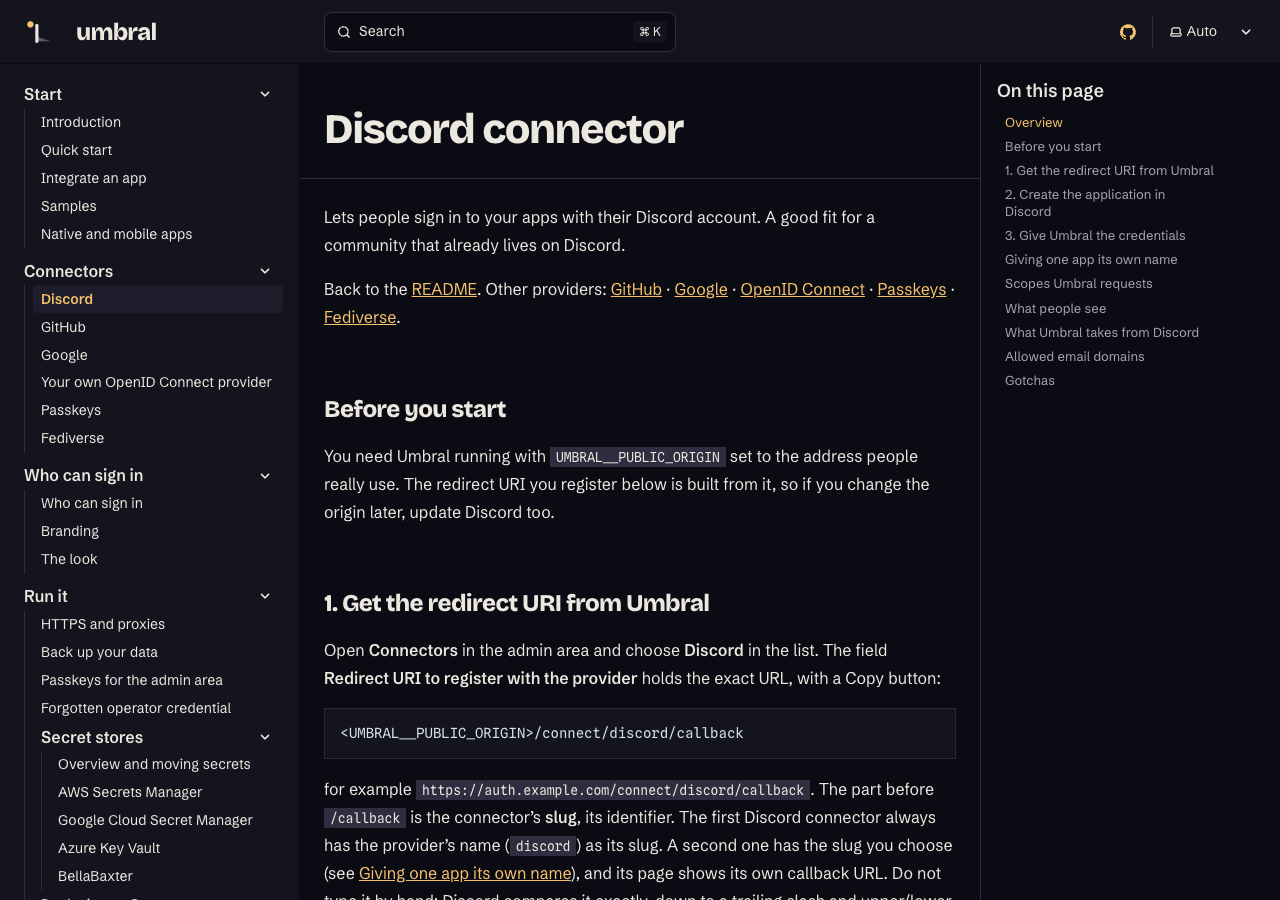
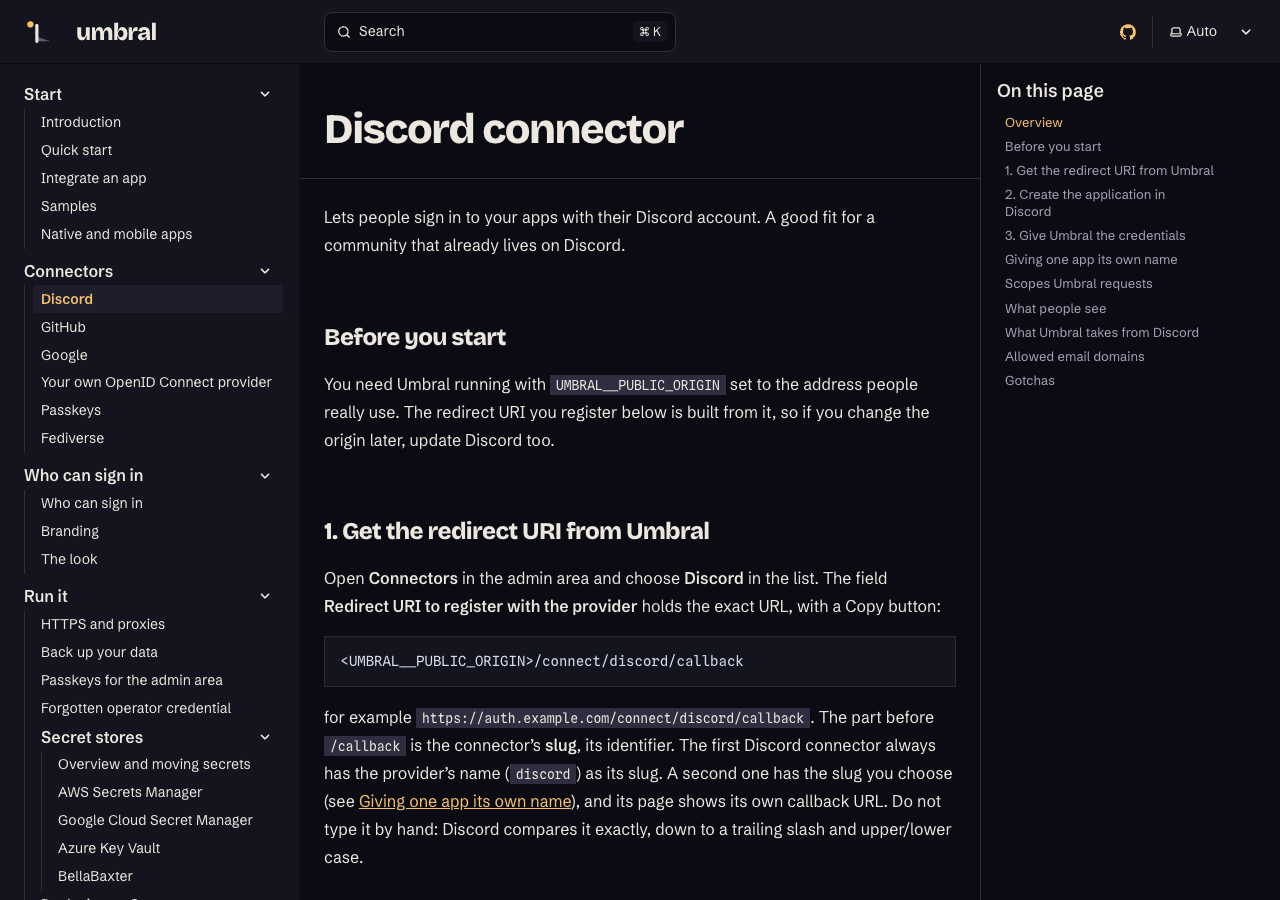
review(docs-site): take the code review, and the documentation re-check's two requests (task hmfr)
Code (code-review.md, two blocking items and five nits):
- pages.yml: one concurrency group per ref, so a pull request can no longer
  cancel a pending deploy to main; a workflow_run trigger after release, since
  the release's changelog push starts no workflow and the Release notes page
  would never follow a release; Node read from site/.nvmrc, pinned to 22.23.4;
  persist-credentials: false; the artifact is uploaded only on main.
- check-dist.mjs: a host named after a quote, a bracket, an equals sign or a
  space in a script, a stylesheet or an SVG file must be the site's own or in
  a list with its reason. It closes a protocol-relative fetch, a URL in an SVG
  file and one in image-set(), which the review injected and the check missed.
- collect.mjs: a comment on the line-based scan's limit.

Documentation re-check (clear):
- The walkthrough's opening says that a passkey is a connector and that a
  person's passkeys belong to their user.
- On the site, collect.mjs leaves out a walkthrough's "Back to the README.
  Other providers: ..." paragraph: the sidebar does that there. The sources
  keep it for readers on GitHub, and a paragraph that holds more than links
  stops the build instead of being dropped.

Design re-check: clear; the verdict is in review.md. Captures retaken.

Changed region(s): [[0.25, 0.7156, 0.75, 1.0], [0.25, 0.3111, 0.75, 0.6844]]

diff --git a/.alta/reviews/2026-11-05-docs-site/code-review.md b/.alta/reviews/2026-11-05-docs-site/code-review.md
@@ -1,0 +1,93 @@
+# Code review: the documentation site's scripts and the Pages workflow (task hmfr)
+
+Branch `alta/roaming-foxglove-m2q5`, `3c87b72..65a2f69` (the site is `ca96f84`). Reviewer: the `umbral` session, 2026-11-11. In scope: `site/scripts/collect.mjs`, `site/scripts/check-dist.mjs`, `.github/workflows/pages.yml`, the pins and `site/package-lock.json`, `site/astro.config.mjs`, `site/site.config.mjs`, `site/sidebar.mjs`, `.dockerignore`. The README split, the new pages and the look are the documentation and design reviews'.
+
+## Verdict
+
+**Two blocking items, both a few lines in `pages.yml`; five nits.** The scripts are sound. I built the site from a clean export and broke each check on purpose: collect refused every bad source, and check-dist has three holes, all closable with one pattern (N1).
+
+## What was checked
+
+- **The build, from a clean export.** I unpacked `git archive 65a2f69` into an empty folder and ran `npm ci && npm run build` on Node 22.23.4. It passed: 28 pages, 169 links to pages and 28 to GitHub, `All internal links are valid.`, and check-dist printed the same line as the notes (48 files, 148 external `<a>` links).
+- **collect.mjs refuses, naming the file and line, and writes nothing.** Each of these exits 1 with `nothing written`:
+  - an unknown `## ` section in the README;
+  - a page in `docs/` missing from the sidebar;
+  - a link to a missing heading;
+  - a link that leaves the repository (`../../outside.md`);
+  - a setext heading;
+  - a second `# ` heading inside a page.
+
+  Writing happens only after every check passes, and the `&&` chain in `npm run build` stops `astro build` on a failure.
+- **Anchors on a page made from two sources.** Anchors map through `headingIds`, keyed by source and line with the page's own repeat counter. So a heading whose text appears in both the README's Integrate section and `docs/integrate.md` still gets the right `-1` id, and `starlight-links-validator` checks the ids again after Astro has made them.
+- **Writes stay in `site/`.** The three output paths are built from `SITE_DIR`, a link that resolves outside the repository is an error, and the generated folders are in `site/.gitignore`.
+- **check-dist's existing rules hold.** A `<link rel="preconnect" href="https://…">` added to `index.html` fails it, and so does `fetch("https://evil.example/x")` added to a script. An unparsable URL counts as another host, so it fails closed.
+- **Action pins.** Each SHA was compared with its tag via `git ls-remote`, and all five match:
+  - checkout v5.1.0 `fbc6f39`, the same as the samples workflows;
+  - setup-node v7.1.0 `949feb2`;
+  - configure-pages v6.0.0 `45bfe01`;
+  - upload-pages-artifact v5.0.0 `fc324d3`;
+  - deploy-pages v5.0.1 `368f825`.
+
+  The last four are the newest tags of their actions today.
+- **npm pins.** Astro 7.4.10, Starlight 0.42.10 and starlight-links-validator 0.27.0 are pinned exactly. The lockfile has 381 entries, all resolved from `registry.npmjs.org`, each with an integrity hash. The only package with an install script is `fsevents` (macOS only, never installed on the runner). Astro's own `engines` does say `node >=22.23.4`.
+- **The workflow's shape.**
+  - `contents: read` at the top. `pages: write` and `id-token: write` only in the deploy job, which runs no repository code.
+  - A pull request builds and uploads nothing.
+  - `configure-pages` is in the deploy job, so a repository without Pages turned on fails only there.
+  - `.dockerignore` keeps `site/` out of the image's context.
+
+## Blocking
+
+- **B1. A pull request can cancel a deploy to `main`.** `concurrency: {group: pages, cancel-in-progress: false}` puts every run in one group, pull requests included. GitHub keeps one running and one pending run per group, and a newly queued run cancels the pending one. Here is what that does:
+  1. A deploy is running.
+  2. A second push to `main` is pending behind it.
+  3. A pull request touching `docs/` queues.
+
+  The `main` run is cancelled and never deploys, and pull requests also wait behind deploys. Give each ref its own group, and let pull requests cancel their own older runs:
+
+  ```yaml
+  concurrency:
+    group: pages-${{ github.ref }}
+    cancel-in-progress: ${{ github.event_name == 'pull_request' }}
+  ```
+
+  `main`'s runs still queue: a newer one replaces a pending older one, which is right, since each deploys its own commit.
+
+- **B2. The Release notes page never updates after a release.** `CHANGELOG.md` only changes through the release workflow. Its changelog job commits and pushes with `GITHUB_TOKEN`, and a push made with that token starts no workflow, so the `CHANGELOG.md` path filter never fires. The page would stay at whatever release came before the last docs change. A `workflow_run` trigger runs after the release workflow, on `main`, with the changelog commit already there:
+
+  ```yaml
+    workflow_run:
+      workflows: [release]
+      types: [completed]
+  ```
+
+  It fires when the whole release run has finished, and both ways of releasing have pushed the changelog to `main` by then: a Run in its `changelog` job, a pushed tag in the `release` job ("Record the changelog on main"). No condition on the run's conclusion is needed. A run that failed before pushing just rebuilds the same notes, and one that failed after pushing still has notes to publish. `github.ref` is `refs/heads/main` for this event, so the deploy job's `if` lets it through, and with B1 it shares `main`'s group. Keep `CHANGELOG.md` in the path filter for a hand edit.
+
+## Nits
+
+- **N1. check-dist misses three things a browser would fetch.** I injected each into the built `dist/`, and check-dist passed:
+  - `fetch("//evil.example/x")` in a script: the JS scan only matches `https?://`, not a protocol-relative URL.
+  - `<image href="https://…">` in an SVG: `.svg` files are never read (today: the favicon and the two Gnomon files). Low risk, because an SVG shown as `<img>` or as a favicon can't fetch, but a later `<object>` or inlined copy could.
+  - `image-set("https://…" 1x)` in CSS: only `url()` and `@import` are scanned.
+
+  One pattern closes all three. In `.js`, `.mjs`, `.css` and `.svg`, take every `["'`(=\s](?:https?:)?//host` and require the host to be on a list, each entry with its reason, as the JS list is today. On this build the hosts it finds are:
+  - `www.w3.org`: the SVG namespace, in CSS data URIs, the SVG files and JS;
+  - `bugzilla.mozilla.org` and `bugs.webkit.org`: comments in Starlight's CSS;
+  - `markjs.io`, `git.io` and `example.com`: already allowed.
+
+  Keep the existing exact-URL list for full `https://` URLs in JS as well.
+- **N2. Pin Node exactly.** Today, `node-version: 22` with `check-latest` takes whatever 22.x is newest on each run, and `.nvmrc`'s `22` lets nvm pick an older installed 22 that npm only warns about (`engines` isn't enforced without `engine-strict`). Write the exact version in `site/.nvmrc` (22.23.4, or the newest 22 when you edit it), and use `node-version-file: site/.nvmrc` without `check-latest`. Then CI and a local build run the same Node, and a bump is one line.
+- **N3. `persist-credentials: false` on the checkout**, as the samples workflows have it. `npm ci` installs a few hundred packages with the job's token in `.git/config`. The token is read-only here, but the line costs nothing and keeps the workflows alike.
+- **N4. A dispatch from another branch uploads an artifact for nothing.** The upload step runs for any event but `pull_request`, while the deploy job needs `main`. Give the upload step the same `github.ref == 'refs/heads/main'` condition. Trivial.
+- **N5. Say the line-based scan's limit in a comment.** A code span that wraps onto a second line isn't blanked (your point 2). Usually that fails loudly, as a link that doesn't exist. The one quiet case is a wrapped span holding `](path)` to a file that exists: the path is rewritten inside the code. No source does this, so no code change: one sentence in the header comment beside "The link scan follows check-links.py".
+
+## The four questions
+
+1. **Exact strings or hosts in the JS allowlist?** Keep exact strings for full `https://` URLs: stricter than a host, since a new path on an allowed host still fails. Add the host check of N1 for the quoted `//host` pattern, which covers what the exact list can't see.
+2. **The line-based scan.** Accepted as is, with N5's sentence.
+3. **The two extra trigger paths.** Both are right: `samples/README.md` is a page, and the fonts ship with the site. B2 is the trigger that was missing.
+4. **Node.** Exact, through `.nvmrc` (N2).
+
+## Not a finding
+
+GitHub Pages can't send headers, but a `<meta http-equiv="Content-Security-Policy">` in Starlight's `head` would make "nothing from another host" enforced by the browser, not only checked at build. It needs `'unsafe-inline'` for Starlight's theme script and `'wasm-unsafe-eval'` for Pagefind, and search would need testing under it. That is worth a follow-up task if you want it, but not for this branch.

diff --git a/.alta/reviews/2026-11-05-docs-site/notes.md b/.alta/reviews/2026-11-05-docs-site/notes.md
@@ -168,8 +168,8 @@ Everything not in the list above that is new text:
 
 - **Pins** (exact, with `package-lock.json`): `astro` 7.4.10, `@astrojs/starlight` 0.42.10,
   `starlight-links-validator` 0.27.0. Nothing else. Astro 7.4.10 itself asks for Node 22.23.4 or
-  later, so `package.json` says `>=22.23.4`, `.nvmrc` says `22`, and the workflow takes the newest
-  22 (`check-latest`), since a runner's cached 22 may be older.
+  later, so `package.json` says `>=22.23.4`, and `.nvmrc` says `22.23.4` exactly, which the
+  workflow reads (after the code review; first `22` with `check-latest`).
 - **`site/site.config.mjs`** holds `site` and `base`, the two lines to change for a custom domain,
   and the repository's address. The Astro config, the collect script and the check import them.
 - **`site/scripts/collect.mjs`** (Node, standard library only) writes `site/src/content/docs/` and
@@ -190,8 +190,9 @@ Everything not in the list above that is new text:
   repository. To a page's source: the page's route, with the anchor checked against the target's
   headings. To `README.md#anchor`: the page that holds that section. To anything else that exists
   in the repository (a sample, a spec, `docker-compose.yml`, `docs/history/`): the file on GitHub.
-  To nothing: an error with `source:line`, and nothing is written. On this tree: 169 links to
-  pages, 28 to GitHub.
+  To nothing: an error with `source:line`, and nothing is written. On this tree: 127 links to
+  pages, 28 to GitHub (169 before the navigation paragraphs were left out, see "After the
+  reviews").
 - **Every page is in the sidebar.** `site/sidebar.mjs` is the sidebar and the list of pages; the
   script fails on a generated page it does not name and on an entry for a page that does not
   exist. 28 pages.
@@ -342,3 +343,47 @@ changed here. The task should wait until the site is live, and not long after.
 After these: `check-links.py` passes (270 links in 34 files), the site builds clean (28 pages, all
 internal links valid, nothing requested from another host), `actionlint` passes on both workflows
 touched.
+
+### Design re-check: clear at `cb75872`
+
+The verdict is at the top of `review.md`. The search field keeps both its gold border (Starlight's)
+and the gold ring (the focus), as ruled.
+
+### Documentation re-check: clear at `cb75872` (`d2dab14`), with two last requests, both taken
+
+- **One sentence in the walkthrough's opening**: "In Umbral a passkey is a connector, and a person's
+  passkeys belong to their user, like the provider accounts they sign in with." It was the one
+  statement of the README's old passkey opening that was left nowhere.
+- **"Back to the README. Other providers: …" on the site** (the designer's observation, ruled by
+  the documentation reviewer): the paragraph stays in the sources, where it is a GitHub reader's
+  way back and sideways, and `collect.mjs` leaves it out of the generated page. The rule is
+  narrow: a paragraph before the first `## ` that starts "Back to the [README](…). Other providers:"
+  or "Other stores:" and holds nothing but links. Ten pages have one (the six connectors, the four
+  stores). If such a paragraph ever holds a sentence of content, the build stops and says so,
+  rather than dropping it. `docs/native-apps.md` opens "Back to the README" too, but goes on with
+  a sentence about the samples, so it does not match and is kept whole. Links to pages went from
+  169 to 127: the 42 that left are those navigation links.
+
+### Code (`code-review.md`): two blocking items and five nits, all taken
+
+- **B1, a pull request could cancel a deploy to `main`.** `concurrency` is now one group per ref,
+  `pages-${{ github.ref }}`, and only a pull request cancels its own older runs.
+- **B2, the Release notes page would never follow a release.** The release pushes `CHANGELOG.md`
+  with the job's token, which starts no workflow. `pages.yml` now also runs on `workflow_run` of
+  `release`, `completed`. `CHANGELOG.md` stays in the path filter for a hand edit.
+- **N1, three fetches `check-dist` did not see.** Added: in every `.js`, `.mjs`, `.css` and `.svg`
+  of `dist/`, a host that follows a quote, a bracket, an equals sign or a space, with or without a
+  scheme, must be the site's own or in a list of hosts, each with its reason (`www.w3.org`,
+  `bugzilla.mozilla.org`, `bugs.webkit.org`, `markjs.io`, `git.io`, `example.com`: the six the
+  reviewer found, and the six this build has). The exact-URL list for JavaScript stays. Proved by
+  injecting the reviewer's three cases into a built `dist/`: `fetch("//evil.example/x")` in a
+  script, `image-set("https://evil.example/a.png" 1x)` in a stylesheet and
+  `<image href="https://evil.example/a.png"/>` in `favicon.svg`. Three problems, one per file, exit
+  1; restored, it passes: `51 files read (29 html, 6 css, 13 js, 3 svg)`.
+- **N2, Node pinned exactly.** `site/.nvmrc` is `22.23.4`; the workflow reads it with
+  `node-version-file` and no `check-latest`.
+- **N3**: `persist-credentials: false` on the checkout.
+- **N4**: the artifact is uploaded only on `main`, the same condition as the deploy job.
+- **N5**: the header comment of `collect.mjs` says the line-based scan's limit.
+- **Not a finding, a Content-Security-Policy in a `<meta>`**: proposed as a follow-up task, not
+  done here.

diff --git a/site/README.md b/site/README.md
@@ -8,7 +8,8 @@ folder is generated and ignored, so to change a page you edit its source Markdow
 
 ## Build and preview
 
-You need Node 22, at 22.23.4 or later, which is what Astro asks for (`.nvmrc`).
+You need the Node version in `.nvmrc` (22.23.4; Astro asks for that or later). The workflow reads
+the same file, so CI and a local build run the same Node.
 
 ```sh
 cd site
@@ -26,7 +27,7 @@ npm run collect   # the collect script alone
 | --- | --- |
 | `site.config.mjs` | The address of the site and of the repository. The first two lines are the only ones to change if the site moves to a domain of its own. |
 | `sidebar.mjs` | The sidebar, and with it the list of pages. |
-| `scripts/collect.mjs` | Cuts the Markdown into pages, writes their frontmatter and rewrites their links. |
+| `scripts/collect.mjs` | Cuts the Markdown into pages, writes their frontmatter and rewrites their links. It leaves out a walkthrough's "Back to the README. Other providers: …" paragraph, which is for readers on GitHub: here the sidebar does that. |
 | `scripts/check-dist.mjs` | Reads the built `dist/` and fails if it asks another host for anything. |
 | `src/styles/umbra.css` | The look: Umbral's colours and fonts, through Starlight's custom properties. The one stylesheet. |
 | `src/assets/`, `public/favicon.svg` | The mark, for the dark and the light theme, and the favicon. |
@@ -44,7 +45,8 @@ The fonts are Umbral's own, copied from `src/Umbral/Assets/fonts/` by the collec
 - A source that does not start with a `# ` title, or that carries frontmatter.
 - A link the built pages do not resolve (`starlight-links-validator`, a second check).
 - Anything in `dist/` that asks another host for a file: an external script, stylesheet, font or
-  image, or a new URL in the JavaScript that `check-dist.mjs` has not been told about.
+  image, a new URL in the JavaScript that `check-dist.mjs` has not been told about, or a host it
+  does not know named in a script, a stylesheet or an SVG file.
 
 ## The look in numbers
 

diff --git a/.alta/reviews/2026-11-05-docs-site/review.md b/.alta/reviews/2026-11-05-docs-site/review.md
@@ -12,7 +12,16 @@ Starlight's custom properties was the right way to make that cheap.
 
 ## Verdict
 
-**Not yet clear: one blocking item, three nits.** All four are a few lines in `umbra.css`. No
+**Re-check, 2026-11-11, at `cb75872`: clear to merge.** All four items are in `umbra.css` as
+asked and seen in the retaken captures: the current sidebar entry is the rail's (a tonal step
+with gold text, both themes; `start-1280-dark`, `connector-discord-1280-light`); h2 is the
+display face at 24px/32px, so the page title leads; the header mark is 28px beside the
+wordmark; the search field's focus ring is gold (`search-1280-dark`). Keep both the gold
+border and the gold ring on that field: the ring is the site's focus language, and the border
+is Starlight's own. Code blocks stay on Starlight's themes. The design side is done; the docs
+and code reviews are the other gates.
+
+First review at `65a2f69`: **not yet clear: one blocking item, three nits.** All four are a few lines in `umbra.css`. No
 component, layout or script is needed for any of them, so the maintainer's constraint holds.
 
 ## What is right and stays

diff --git a/docs/connectors/passkey.md b/docs/connectors/passkey.md
@@ -4,7 +4,9 @@ Lets people sign in to your apps with a passkey, and no account at any provider.
 A passkey is a key that a person's phone, laptop or security key holds, unlocked
 by their fingerprint, face or PIN. Nothing is typed, there is nothing to phish,
 and no third party learns who signed in. Umbral is the provider: it keeps only
-the public half of the key, which is not a secret.
+the public half of the key, which is not a secret. In Umbral a passkey is a
+connector, and a person's passkeys belong to their user, like the provider
+accounts they sign in with.
 
 Phones, recent laptops and tablets hold passkeys (the platform's own keychain or
 password manager syncs them), and so do hardware security keys such as a YubiKey.
